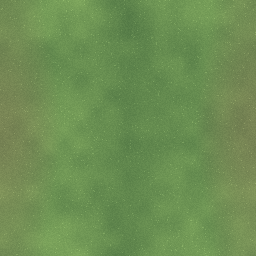
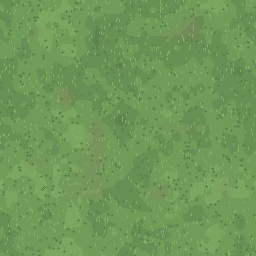
Decoratie op het veld en gras als echte pixelart
Het gras was zachte ruis terwijl alle sprites scherpe pixelart zijn. Nu een
beperkt palet van vijf grastinten met sprietjes en plukjes, 256x256 en met
texture_scale 0.25 zodat een texel vier schermpixels wordt - dezelfde
korrelgrootte als de 16x16 vijanden.

Twee eerdere pogingen gingen mis en zijn bijgesteld: te grove ruis gaf
banden over de hele tegel, en harde grondvlakken maakten het tegelpatroon
zichtbaar als verticale strepen. De grond is nu een lichte verkleuring in
plaats van een eigen kleurvlak.

Decoratie-node strooit 130 stenen, keien, struiken en bloemen over het veld.
Puur decor: geen botsing en geen _process, alleen Sprite2D-nodes. Ze mijden
het startpunt van de speler en de vijvers. De vier uitsnedes worden een keer
aangemaakt en gedeeld in plaats van per sprite.

Let op voor fase 7: dit zijn 130 extra nodes in de boom. Statisch, dus ze
kosten alleen tekenwerk, maar ze tellen wel mee in OBJECT_NODE_COUNT.

diff --git a/docs/assets-herkomst.md b/docs/assets-herkomst.md
@@ -15,6 +15,7 @@ Per bestand vastleggen waar het vandaan komt en onder welke licentie. Nodig voor
 | `assets/art/enemies/crimson_imp.png` | idem | **NOG INVULLEN** |
 | `assets/art/floor/stone_tiles.png` | Zelf gegenereerd binnen dit project | Eigen werk, geen licentie nodig |
 | `assets/art/floor/grass.png` | Zelf gegenereerd binnen dit project | Eigen werk, geen licentie nodig |
+| `assets/art/floor/decoratie.png` | Zelf gegenereerd binnen dit project | Eigen werk, geen licentie nodig |
 | `assets/art/player/soldier_walk.png` | Pack "Tiny RPG Character Asset Pack 01 v2.0", Soldier | **NOG INVULLEN** |
 | `assets/art/player/soldier_idle.png` | idem | **NOG INVULLEN** |
 
